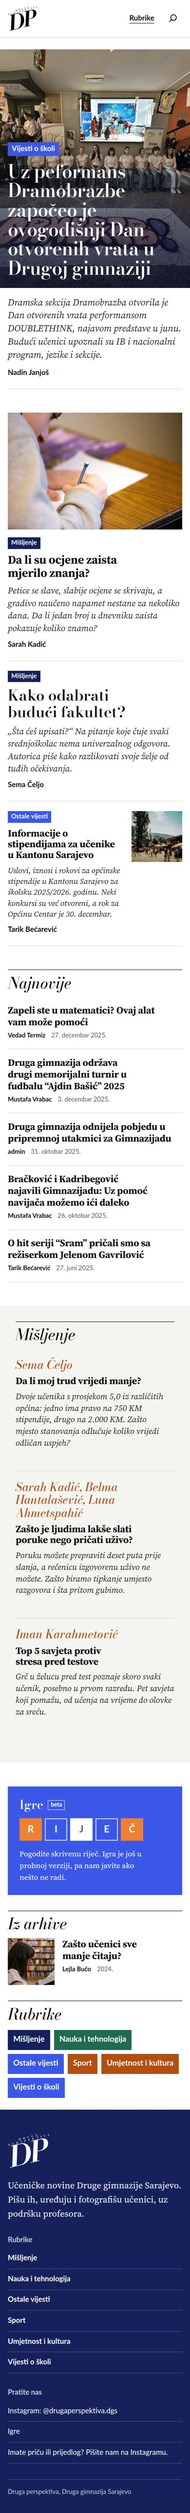
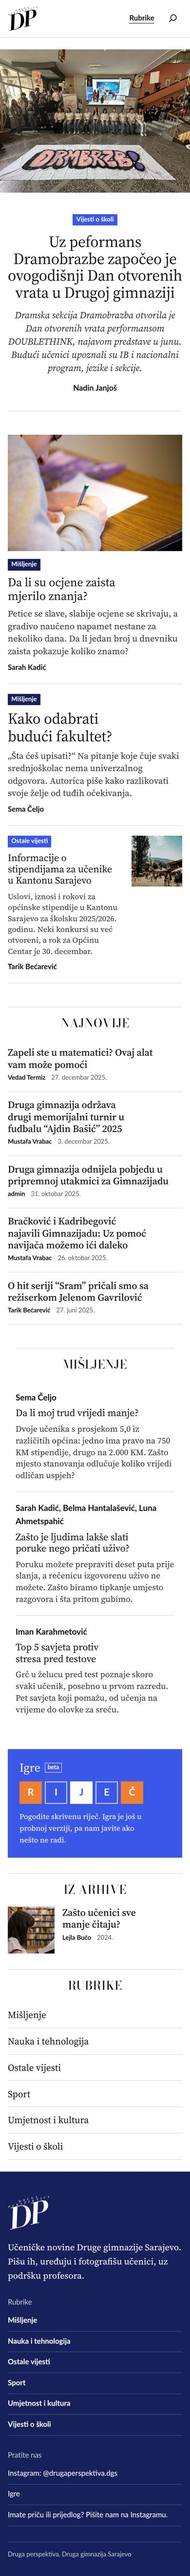
Editorial restyle after New Yorker review
Regular-weight serif headlines instead of bold, roman Bodoni capitals for
section titles (no italics), lead with centred text beside the photo,
Mišljenje as a plain section with author names first, plain Rubrike list.
Bump version to 1.2.0 and refresh screenshots.

Claude-Session: https://claude.ai/code/session_01QPkDtEsER7FQnCPTtN3PAv

diff --git a/druga-perspektiva/assets/css/theme.css b/druga-perspektiva/assets/css/theme.css
@@ -78,32 +78,22 @@ p {
 }
 
 /*
- * Veliki naslovi u Bodoni Modi, istom duhu kao DP logo. Manji naslovi
- * ostaju u Source Serifu, jer Bodoni tanke linije gubi na malim veličinama.
+ * Naslovi su u običnoj (ne masnoj) težini, kao u magazinima. Bodoni Moda,
+ * u duhu DP loga, koristi se samo za nazive rubrika i modula, velikim slovima.
  */
-.dp-lead-title,
-.dp-article-title,
-.dp-archive-title,
-.dp-igre-title,
-.dp-features-list > li:nth-child(2) .dp-feature-title,
-body:not(.paged) .dp-river--first-big > li:first-child .wp-block-post-title {
-	font-family: var(--dp-display);
-	font-weight: 600;
-	letter-spacing: -0.005em;
-	font-variant-numeric: lining-nums;
-	/* Manja optička veličina = deblje tanke linije, čitljivije na ekranu. */
-	font-optical-sizing: none;
-	font-variation-settings: "opsz" 20;
+.wp-block-post-title,
+.dp-article-title {
+	font-weight: 400;
 }
 
-.dp-module-heading,
-.dp-opinion-author,
-.dp-author-name {
-	font-optical-sizing: none;
-	font-variation-settings: "opsz" 16;
+.dp-list .wp-block-post-title,
+.dp-read-more-list .wp-block-post-title,
+.dp-archive .wp-block-post-title,
+.dp-river .wp-block-post-title {
+	font-weight: 500;
 }
 
-/* ---------- Oznaka rubrike (chip), kao na Instagramu ---------- */
+/* ---------- Oznaka rubrike (chip)/* ---------- Oznaka rubrike (chip), kao na Instagramu ---------- */
 
 .dp-chip {
 	margin: 0;
@@ -275,15 +265,18 @@ body:not(.paged) .dp-river--first-big > li:first-child .wp-block-post-title {
 /* ---------- Naslovi modula ---------- */
 
 .dp-module-heading {
-	border-top: 1px solid var(--wp--preset--color--tinta);
-	padding-top: 0.6rem;
-	margin: 0 0 0.75rem;
+	border-top: var(--dp-line);
+	padding-top: var(--wp--preset--spacing--40);
+	margin: 0 0 var(--wp--preset--spacing--40);
 	font-family: var(--dp-display);
-	font-style: italic;
+	font-optical-sizing: none;
+	font-variation-settings: "opsz" 24;
 	font-weight: 500;
-	font-size: clamp(2rem, 1.4rem + 2.4vw, 3rem);
-	line-height: 1.05;
-	letter-spacing: -0.01em;
+	font-size: clamp(1.5rem, 1.2rem + 1.2vw, 2.125rem);
+	line-height: 1.1;
+	letter-spacing: 0.02em;
+	text-transform: uppercase;
+	text-align: center;
 }
 
 .dp-module-heading a {
@@ -311,81 +304,45 @@ body:not(.paged) .dp-river--first-big > li:first-child .wp-block-post-title {
 	margin: 0;
 }
 
-.dp-lead-cover {
-	position: relative;
-	min-height: 0 !important;
-	aspect-ratio: 4 / 5;
-	margin-inline: calc(-1 * var(--dp-gutter));
-	padding: 1.25rem var(--dp-gutter) !important;
-	align-items: flex-end;
-	overflow: hidden;
-	background: var(--wp--preset--color--navy);
+.dp-lead-card {
+	display: grid;
+	gap: 1.25rem;
+	padding-bottom: var(--wp--preset--spacing--50);
+	border-bottom: var(--dp-line);
 }
 
-/* Tamni prelaz samo na donjoj trećini, da ostatak fotografije ostane čist. */
-.dp-lead-cover .wp-block-cover__background {
-	opacity: 1 !important;
-	background-color: transparent !important;
-	background-image: linear-gradient(to top, rgba(9, 13, 38, 0.86) 0%, rgba(9, 13, 38, 0.6) 30%, rgba(9, 13, 38, 0) 62%);
+.dp-lead-image {
+	margin: 0 calc(-1 * var(--dp-gutter));
 }
 
-.dp-lead-cover .wp-block-cover__inner-container {
-	width: 100%;
-	display: flex;
-	flex-direction: column;
-	align-items: flex-start;
-	gap: 0.75rem;
+.dp-lead-text {
+	align-items: center !important;
+	text-align: center;
+	max-width: 36rem;
+	margin-inline: auto;
+}
+
+.dp-lead-text > * {
+	margin: 0;
 }
 
 .dp-lead-title {
-	margin: 0;
-	color: var(--wp--preset--color--papir);
-	line-height: 1.04;
-	letter-spacing: -0.015em;
-	max-width: 20ch;
-}
-
-.dp-lead-title a {
-	color: var(--wp--preset--color--papir);
+	font-size: clamp(2rem, 1.4rem + 2.4vw, 3.375rem) !important;
+	line-height: 1.08;
+	letter-spacing: -0.01em;
 }
 
 .dp-lead-title a:hover {
-	color: var(--wp--preset--color--papir);
+	text-decoration: underline;
+	text-decoration-thickness: 2px;
 }
 
-/* Cijela fotografija je link na članak. */
-.dp-lead-title a::after {
-	content: "";
-	position: absolute;
-	inset: 0;
-	z-index: 1;
-}
-
-.dp-lead-cover .dp-chip {
-	position: relative;
-	z-index: 2;
-}
-
-.dp-lead-cover .dp-chip a {
-	font-size: 0.9375rem;
-}
-
-.dp-lead-below {
-	margin-top: 1rem;
-	padding-bottom: var(--wp--preset--spacing--40);
-	border-bottom: var(--dp-line);
-	gap: 0.75rem 3rem;
-}
-
-.dp-lead-below .dp-standfirst {
-	flex: 1 1 32rem;
-	max-width: 44rem;
-	margin: 0;
+.dp-lead-dek {
 	font-size: var(--wp--preset--font-size--dek);
 }
 
-.dp-lead-below .wp-block-post-author-name {
-	flex: 0 0 auto;
+.dp-lead-author {
+	font-size: 1rem;
 }
 
 /* ---------- Naslovnica: tri izdvojena teksta ---------- */
@@ -413,8 +370,11 @@ body:not(.paged) .dp-river--first-big > li:first-child .wp-block-post-title {
 	margin: 0;
 }
 
-.dp-feature-dek {
+.dp-feature-dek,
+.dp-opinion .dp-standfirst {
 	margin: 0;
+	font-style: normal;
+	color: #333;
 }
 
 /* Drugi tekst: bez fotografije, veći naslov. */
@@ -479,12 +439,7 @@ body:not(.paged) .dp-river--first-big > li:first-child .wp-block-post-title {
 /* ---------- Mišljenje: kolumne, ime autora prvo ---------- */
 
 .dp-opinion {
-	background: var(--wp--preset--color--papir-2);
-	padding: var(--wp--preset--spacing--50) var(--dp-gutter) var(--wp--preset--spacing--60);
-}
-
-.dp-opinion .dp-module-heading a:hover {
-	color: var(--wp--preset--color--narandza-chip);
+	padding: 0 var(--dp-gutter);
 }
 
 .dp-opinion-list > li {
@@ -498,13 +453,8 @@ body:not(.paged) .dp-river--first-big > li:first-child .wp-block-post-title {
 }
 
 .dp-opinion-author {
-	font-family: var(--dp-display);
-	font-style: italic;
-	font-weight: 500;
-	font-size: clamp(1.5rem, 1.2rem + 1vw, 1.875rem);
-	line-height: 1.1;
-	color: var(--wp--preset--color--narandza-chip);
-	margin-bottom: 0.5rem;
+	font-size: 1.0625rem;
+	margin-bottom: 0.4rem;
 }
 
 .dp-opinion .wp-block-post-title {
@@ -644,27 +594,10 @@ body:not(.paged) .dp-river--first-big > li:first-child .wp-block-post-title {
 	text-decoration: underline;
 }
 
-/* Na naslovnici: rubrike kao oznake u boji, kao na Instagramu. */
-.dp-rubrike-module .dp-rubrike {
-	display: flex;
-	flex-wrap: wrap;
-	gap: 0.5rem;
-	margin-top: 1rem;
-}
-
-.dp-rubrike-module .dp-rubrike li {
-	border: 0;
-}
-
 .dp-rubrike-module .dp-rubrike a {
-	padding: 0.45rem 0.7rem 0.5rem;
-	background: var(--dp-chip, var(--wp--preset--color--navy));
-	color: var(--wp--preset--color--papir);
-	font-size: 1rem;
-}
-
-.dp-rubrike-module .dp-rubrike a:hover {
-	color: var(--wp--preset--color--papir);
+	font-family: var(--dp-serif);
+	font-weight: 400;
+	font-size: 1.1875rem;
 }
 
 /* ---------- Podnožje ---------- */
@@ -905,9 +838,7 @@ body:not(.paged) .dp-river--first-big > li:first-child .wp-block-post-title {
 }
 
 .dp-author-name {
-	font-family: var(--dp-display);
-	font-style: italic;
-	font-weight: 500;
+	font-family: var(--dp-serif);
 	font-size: var(--wp--preset--font-size--naslov-s);
 }
 
@@ -966,10 +897,19 @@ body:not(.paged) .dp-river--first-big > li:first-child .wp-block-post-title {
 }
 
 .dp-archive-title {
-	display: inline-block;
 	margin: 0;
-	padding-bottom: 0.2rem;
-	border-bottom: 5px solid var(--dp-rubrika, var(--wp--preset--color--tinta));
+	font-family: var(--dp-display);
+	font-optical-sizing: none;
+	font-variation-settings: "opsz" 24;
+	font-weight: 500;
+	letter-spacing: 0.02em;
+	text-transform: uppercase;
+}
+
+.category .dp-archive-head {
+	text-align: center;
+	border-top: 4px solid var(--dp-rubrika, var(--wp--preset--color--tinta));
+	padding-top: var(--wp--preset--spacing--40);
 }
 
 .dp-archive-head .wp-block-term-description {
@@ -1132,23 +1072,12 @@ body:not(.paged) .dp-river--first-big > li:first-child .wp-block-post-title {
 /* ---------- Tablet i desktop ---------- */
 
 @media (min-width: 600px) {
-	.dp-lead-cover {
-		aspect-ratio: 16 / 10;
-		margin-inline: 0;
-		padding: 2rem !important;
-	}
-
-	.dp-lead-title {
-		max-width: min(66%, 24ch);
-	}
 
 	.dp-logo img {
 		height: 60px;
 	}
 
-	.dp-lead-cover .dp-chip a {
-		font-size: 1.0625rem;
-	}
+
 
 	.dp-bottom {
 		grid-template-columns: 1fr 1fr;
@@ -1164,10 +1093,23 @@ body:not(.paged) .dp-river--first-big > li:first-child .wp-block-post-title {
 }
 
 @media (min-width: 782px) {
-	.dp-lead-cover {
-		aspect-ratio: 16 / 9;
-		padding: 2.5rem 3rem !important;
+	.dp-lead-card {
+		grid-template-columns: 1fr 1fr;
+		gap: 3rem;
+		align-items: center;
 	}
+
+	.dp-lead-image {
+		grid-column: 2;
+		grid-row: 1;
+		margin: 0;
+	}
+
+	.dp-lead-text {
+		grid-column: 1;
+		grid-row: 1;
+	}
+
 
 	/* Tri izdvojena teksta u jednom redu: 5 / 4 / 3. */
 	.dp-features-list {

diff --git a/druga-perspektiva/templates/front-page.html b/druga-perspektiva/templates/front-page.html
@@ -9,17 +9,18 @@
 	<!-- wp:query {"queryId":1,"query":{"perPage":1,"pages":0,"offset":0,"postType":"post","order":"desc","orderBy":"date","author":"","search":"","exclude":[],"sticky":"","inherit":false},"className":"dp-lead dp-min-1","metadata":{"name":"Glavna priča"}} -->
 	<div class="wp-block-query dp-lead dp-min-1">
 		<!-- wp:post-template {"className":"dp-lead-list"} -->
-			<!-- wp:cover {"useFeaturedImage":true,"dimRatio":0,"isUserOverlayColor":true,"contentPosition":"bottom left","className":"dp-lead-cover","style":{"spacing":{"padding":{"top":"1.25rem","bottom":"1.25rem","left":"1.25rem","right":"1.25rem"}}},"layout":{"type":"default"}} -->
-			<div class="wp-block-cover has-custom-content-position is-position-bottom-left dp-lead-cover" style="padding-top:1.25rem;padding-right:1.25rem;padding-bottom:1.25rem;padding-left:1.25rem"><span aria-hidden="true" class="wp-block-cover__background has-background-dim-0 has-background-dim"></span><div class="wp-block-cover__inner-container">
-				<!-- wp:post-terms {"term":"category","className":"dp-chip"} /-->
-				<!-- wp:post-title {"level":2,"isLink":true,"className":"dp-lead-title","fontSize":"display"} /-->
-			</div></div>
-			<!-- /wp:cover -->
+			<!-- wp:group {"className":"dp-lead-card","layout":{"type":"default"}} -->
+			<div class="wp-block-group dp-lead-card">
+				<!-- wp:post-featured-image {"isLink":true,"aspectRatio":"4/3","className":"dp-lead-image"} /-->
 
-			<!-- wp:group {"className":"dp-lead-below","layout":{"type":"flex","flexWrap":"wrap","justifyContent":"space-between","verticalAlignment":"top"}} -->
-			<div class="wp-block-group dp-lead-below">
-				<!-- wp:post-excerpt {"moreText":"","className":"dp-standfirst"} /-->
-				<!-- wp:post-author-name {"isLink":true} /-->
+				<!-- wp:group {"className":"dp-lead-text","style":{"spacing":{"blockGap":"1rem"}},"layout":{"type":"flex","orientation":"vertical","justifyContent":"center"}} -->
+				<div class="wp-block-group dp-lead-text">
+					<!-- wp:post-terms {"term":"category","className":"dp-chip"} /-->
+					<!-- wp:post-title {"level":2,"isLink":true,"textAlign":"center","className":"dp-lead-title","fontSize":"display"} /-->
+					<!-- wp:post-excerpt {"moreText":"","textAlign":"center","className":"dp-standfirst dp-lead-dek"} /-->
+					<!-- wp:post-author-name {"isLink":true,"className":"dp-lead-author"} /-->
+				</div>
+				<!-- /wp:group -->
 			</div>
 			<!-- /wp:group -->
 		<!-- /wp:post-template -->

diff --git a/druga-perspektiva/style.css b/druga-perspektiva/style.css
@@ -6,7 +6,7 @@ Description: Blok tema za učeničke novine Druga perspektiva (Druga gimnazija S
 Requires at least: 6.6
 Tested up to: 7.1
 Requires PHP: 7.4
-Version: 1.1.0
+Version: 1.2.0
 License: GNU General Public License v2 or later
 License URI: http://www.gnu.org/licenses/gpl-2.0.html
 Text Domain: druga-perspektiva

diff --git a/DESIGN-PLAN.md b/DESIGN-PLAN.md
@@ -30,7 +30,7 @@ Sampled from your Instagram posts, then adjusted where small white text would be
 
 ## 2. Typefaces
 
-> **Update after the first build:** the first version looked too much like The Confluence (serif headlines, a big navy block, thick black rules). Big headlines now use **Bodoni Moda**, a high-contrast serif in the spirit of the DP logo. Section titles are large Bodoni italics over a thin rule. Mišljenje sits on a light panel with author names in orange Bodoni italics. Navy appears only in the footer and the Mišljenje chip. Smaller headlines and article text stay in Source Serif 4, and labels stay in Lato.
+> **Update after feedback (v1.2):** version 1 looked like a copy of The Confluence, and the Bodoni italic version looked AI-made. After studying the real New Yorker site, the theme now uses **regular-weight** Source Serif headlines (no bold), roman (not italic) section titles in Bodoni Moda capitals, centered over a thin rule, a lead with centered text beside the photo instead of text on the photo, no colored panels on the homepage, and author names in plain bold sans. Navy is used only in the footer. The Instagram chips and the Igre tile stay as the brand link.
 
 | Role | Font | Why |
 |---|---|---|
